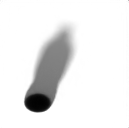
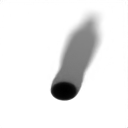
feat: collection animation

Changed region(s): [[0.1562, 0.0938, 0.8125, 0.9062]]

diff --git a/packages/trashy_road/lib/src/game/entities/trash/trash.dart b/packages/trashy_road/lib/src/game/entities/trash/trash.dart
@@ -1,6 +1,8 @@
 import 'package:flame/collisions.dart';
 import 'package:flame/components.dart';
+import 'package:flame/effects.dart';
 import 'package:flame_behaviors/flame_behaviors.dart';
+import 'package:flutter/material.dart';
 import 'package:meta/meta.dart';
 import 'package:tiled/tiled.dart';
 import 'package:trashy_road/game_settings.dart';
@@ -32,7 +34,7 @@ abstract class Trash extends PositionedEntity {
   Trash({
     required Vector2 position,
     required this.trashType,
-    Iterable<SpriteComponent>? children,
+    Iterable<Component>? children,
   }) : super(
           anchor: Anchor.bottomLeft,
           size: Vector2(1, 2)..toGameSize(),
@@ -70,5 +72,35 @@ abstract class Trash extends PositionedEntity {
     }
   }
 
+  void removeTrash() {
+    final animator = children.whereType<TrashCollectionAnimator>().firstOrNull;
+
+    if (animator != null) {
+      animator.removalAnimation(onComplete: removeFromParent);
+    } else {
+      removeFromParent();
+    }
+  }
+
   final TrashType trashType;
+}
+
+class TrashCollectionAnimator extends PositionComponent {
+  TrashCollectionAnimator({super.position, super.scale, super.children})
+      : super(
+          anchor: Anchor.center,
+        );
+
+  void removalAnimation({void Function()? onComplete}) {
+    add(
+      ScaleEffect.to(
+        Vector2.all(0),
+        EffectController(
+          duration: 0.4,
+          curve: Curves.easeInBack,
+        ),
+        onComplete: onComplete,
+      ),
+    );
+  }
 }

diff --git a/packages/trashy_road/lib/src/game/entities/trash/trash_plastic.dart b/packages/trashy_road/lib/src/game/entities/trash/trash_plastic.dart
@@ -11,8 +11,14 @@ class TrashPlastic extends Trash {
       : super(
           trashType: TrashType.plastic,
           children: [
-            _TrashPlasticShadowSpriteComponent(),
-            _TrashPlasticSpriteComponent(),
+            TrashCollectionAnimator(
+              position: Vector2(0.5, 1.2)..toGameSize(),
+              scale: Vector2.all(1.2),
+              children: [
+                _TrashPlasticShadowSpriteComponent(),
+                _TrashPlasticSpriteComponent(),
+              ],
+            ),
           ],
         );
 
@@ -28,9 +34,7 @@ class _TrashPlasticSpriteComponent extends SpriteComponent
     with HasGameReference {
   _TrashPlasticSpriteComponent()
       : super(
-          // eyeballed position
-          scale: Vector2.all(0.8),
-          position: Vector2(0.35, 0.1)..toGameSize(),
+          anchor: Anchor.center,
         );
 
   @override
@@ -47,8 +51,7 @@ class _TrashPlasticShadowSpriteComponent extends SpriteComponent
     with HasGameReference {
   _TrashPlasticShadowSpriteComponent()
       : super(
-          // eyeballed position
-          position: Vector2(0.25, -0.1)..toGameSize(),
+          anchor: Anchor.center,
         );
 
   @override

diff --git a/packages/trashy_road/lib/src/game/entities/player/behaviors/player_collecting_trash_behavior.dart b/packages/trashy_road/lib/src/game/entities/player/behaviors/player_collecting_trash_behavior.dart
@@ -14,6 +14,6 @@ class PlayerCollectingTrashBehavior extends CollisionBehavior<Trash, Player>
     super.onCollisionStart(intersectionPoints, other);
 
     bloc.add(GameCollectedTrashEvent(item: other.trashType));
-    other.removeFromParent();
+    other.removeTrash();
   }
 }
